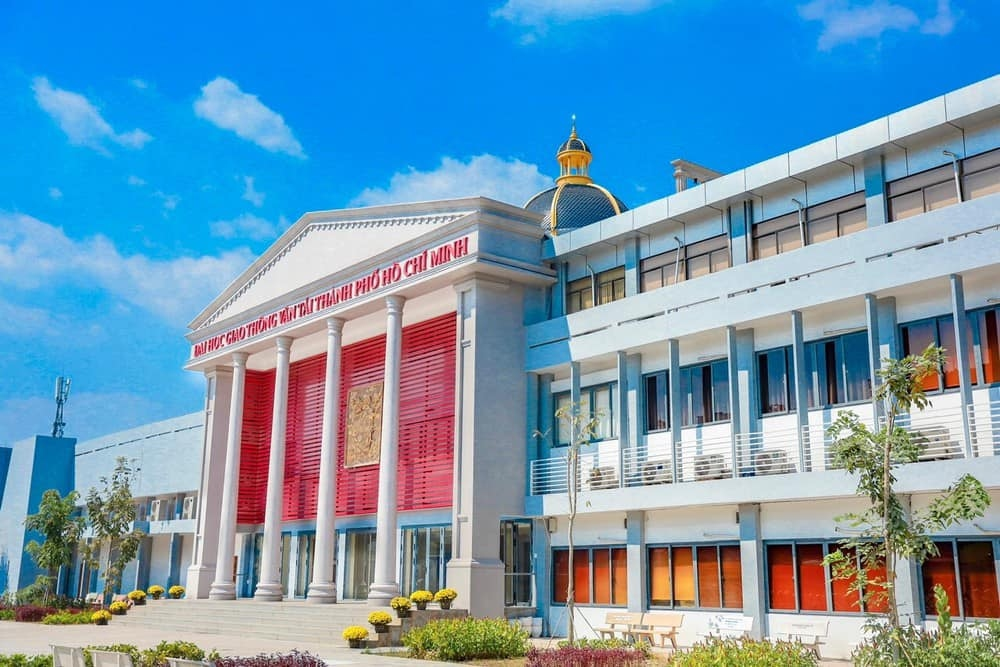
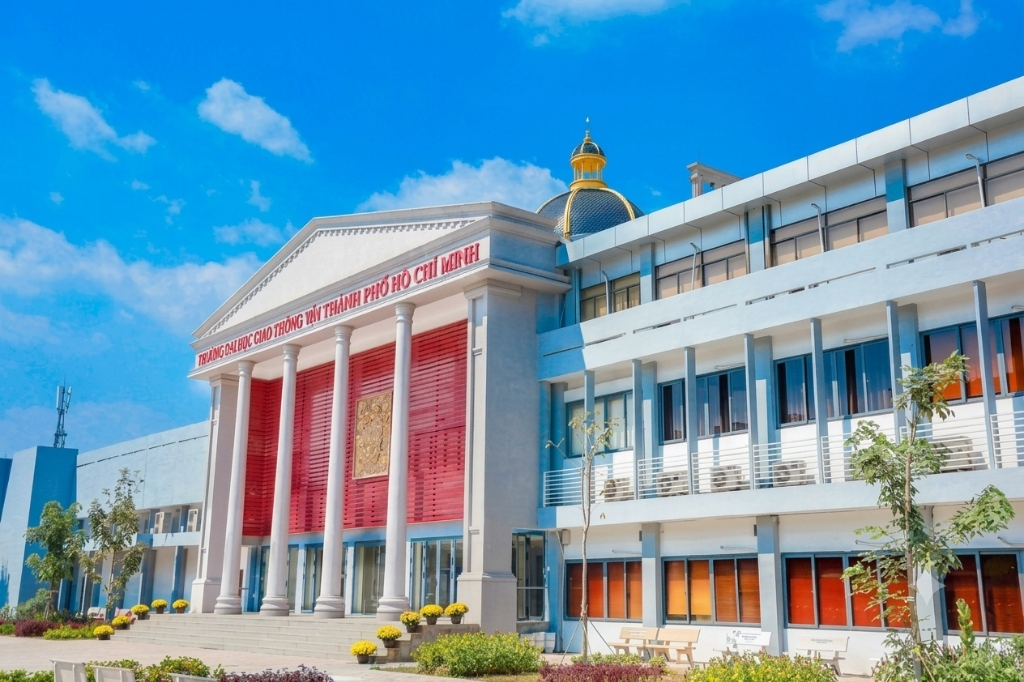
fix(auth): keep exact 1024x682 native resolution for campus background to prevent image blur and zoom

diff --git a/frontend/src/pages/LoginPage.tsx b/frontend/src/pages/LoginPage.tsx
@@ -67,143 +67,153 @@ export const LoginPage: React.FC = () => {
   };
 
   return (
-    <div className="min-h-screen lg:h-screen w-full relative overflow-x-hidden lg:overflow-hidden select-none flex flex-col justify-center items-center lg:items-end p-4 sm:p-6 lg:p-10 xl:pr-16">
-      {/* =========================================
-          FULL-SCREEN UTH CAMPUS BACKGROUND PHOTO
-          ========================================= */}
-      <img
-        src="/uth-campus-bg.jpg"
-        alt="Khuôn viên Trường Đại học Giao thông vận tải TP.HCM"
-        className="absolute inset-0 w-full h-full object-cover object-center filter brightness-100 contrast-105"
+    <div className="min-h-screen w-full flex items-center justify-center bg-[#071c1d] p-2 sm:p-4 lg:p-6 select-none relative overflow-x-hidden">
+      {/* Ambient background blur to naturally fill wide screens without stretching the main canvas */}
+      <div
+        className="fixed inset-0 bg-cover bg-center filter blur-3xl opacity-35 scale-110 pointer-events-none"
+        style={{ backgroundImage: 'url(/uth-campus-bg.jpg)' }}
       />
-
-      {/* Subtle Ambient Vignette & Sky Clarity */}
-      <div className="absolute inset-0 bg-black/10 pointer-events-none" />
+      <div className="fixed inset-0 bg-slate-950/50 pointer-events-none" />
 
       {/* Top Floating Back to Home Button */}
       <Link
         to="/"
-        className="absolute top-4 left-4 sm:top-6 sm:left-6 z-20 inline-flex items-center gap-1.5 text-xs font-semibold text-white hover:text-white bg-black/40 hover:bg-black/60 backdrop-blur-md px-3.5 py-1.5 rounded-full transition-all border border-white/25 shadow-md group"
+        className="absolute top-4 left-4 sm:top-6 sm:left-6 z-20 inline-flex items-center gap-1.5 text-xs font-semibold text-white/90 hover:text-white bg-black/40 hover:bg-black/60 backdrop-blur-md px-3.5 py-1.5 rounded-full transition-all border border-white/20 shadow-md group"
       >
         <ArrowLeft className="w-3.5 h-3.5 group-hover:-translate-x-0.5 transition-transform" />
         <span>Về trang chủ Thư viện</span>
       </Link>
 
-      {/* =========================================
-          LOGIN CARD FLOATING ON TOP-RIGHT (Matching Elearning UTH)
-          ========================================= */}
-      <div className="relative z-10 w-full max-w-[390px] sm:max-w-[410px] bg-white rounded-2xl sm:rounded-3xl shadow-[0_20px_50px_rgba(0,0,0,0.3)] p-6 sm:p-8 border border-white/95 animate-page-enter">
-        {/* Official UTH Logo */}
-        <div className="text-center mb-3">
-          <img
-            src="/uth-logo.png"
-            alt="UTH Logo"
-            className="h-16 mx-auto object-contain"
-          />
-        </div>
+      {/* ==============================================================
+          MAIN 1024x682 CANVAS - Exact 1:1 Native Dimensions (No Scaling/Zoom)
+          ============================================================== */}
+      <div className="relative w-[1024px] max-w-full h-[682px] max-h-[95vh] rounded-2xl sm:rounded-3xl shadow-[0_25px_60px_rgba(0,0,0,0.5)] overflow-hidden border border-white/20 flex flex-col justify-center items-center lg:items-end p-5 sm:p-8 lg:pr-10 z-10 shrink-0">
+        {/* Full-size 1024x682 UTH Campus Image rendered with optimal contrast */}
+        <img
+          src="/uth-campus-bg.jpg"
+          alt="Khuôn viên Trường Đại học Giao thông vận tải TP.HCM"
+          width={1024}
+          height={682}
+          className="absolute inset-0 w-full h-full object-cover sm:object-fill pointer-events-none"
+          style={{ imageRendering: '-webkit-optimize-contrast' }}
+        />
 
-        {/* Red Bold Heading */}
-        <h1 className="text-xl sm:text-2xl font-black text-[#D32F2F] tracking-wider text-center uppercase mb-6">
-          ĐĂNG NHẬP HỆ THỐNG
-        </h1>
+        {/* =========================================
+            LOGIN CARD - Positioned on the Right
+            ========================================= */}
+        <div className="relative z-10 w-full max-w-[360px] sm:max-w-[380px] bg-white rounded-2xl shadow-[0_15px_40px_rgba(0,0,0,0.3)] p-5 sm:p-7 border border-white/90 animate-page-enter">
+          {/* Official UTH Logo */}
+          <div className="text-center mb-3">
+            <img
+              src="/uth-logo.png"
+              alt="UTH Logo"
+              className="h-14 mx-auto object-contain"
+            />
+          </div>
 
-        {/* Error Message */}
-        {errorMsg && (
-          <div className="mb-4 animate-in fade-in duration-150">
-            <Alert variant="danger">
-              <div className="font-semibold text-xs">{errorMsg}</div>
-              {lockTime && (
-                <div className="text-[11px] mt-1 flex items-center gap-1">
-                  <Clock className="w-3 h-3" />
-                  Khóa đến: {new Date(lockTime).toLocaleTimeString('vi-VN')}
-                </div>
+          {/* Red Bold Heading */}
+          <h1 className="text-xl font-black text-[#D32F2F] tracking-wider text-center uppercase mb-5">
+            ĐĂNG NHẬP HỆ THỐNG
+          </h1>
+
+          {/* Error Message */}
+          {errorMsg && (
+            <div className="mb-4 animate-in fade-in duration-150">
+              <Alert variant="danger">
+                <div className="font-semibold text-xs">{errorMsg}</div>
+                {lockTime && (
+                  <div className="text-[11px] mt-1 flex items-center gap-1">
+                    <Clock className="w-3 h-3" />
+                    Khóa đến: {new Date(lockTime).toLocaleTimeString('vi-VN')}
+                  </div>
+                )}
+              </Alert>
+            </div>
+          )}
+
+          {/* Login Form */}
+          <form onSubmit={handleSubmit} className="space-y-3.5">
+            <div>
+              <input
+                type="text"
+                value={identity}
+                onChange={(e) => setIdentity(e.target.value)}
+                placeholder="Tài khoản đăng nhập"
+                autoFocus
+                className="w-full px-3.5 py-2.5 text-sm text-gray-800 bg-white border border-gray-300 rounded-lg focus:outline-none focus:border-brand focus:ring-1 focus:ring-brand placeholder:text-gray-400 placeholder:italic transition-all shadow-xs"
+              />
+            </div>
+
+            <div className="relative">
+              <input
+                type={showPassword ? 'text' : 'password'}
+                value={password}
+                onChange={(e) => setPassword(e.target.value)}
+                placeholder="Mật khẩu"
+                className="w-full px-3.5 py-2.5 text-sm text-gray-800 bg-white border border-gray-300 rounded-lg focus:outline-none focus:border-brand focus:ring-1 focus:ring-brand placeholder:text-gray-400 placeholder:italic pr-10 transition-all shadow-xs"
+              />
+              <button
+                type="button"
+                onClick={() => setShowPassword(!showPassword)}
+                className="absolute right-3 top-1/2 -translate-y-1/2 text-gray-400 hover:text-gray-600 focus:outline-none transition-colors"
+                tabIndex={-1}
+                aria-label={showPassword ? 'Ẩn mật khẩu' : 'Hiện mật khẩu'}
+              >
+                {showPassword ? <EyeOff className="w-4 h-4" /> : <Eye className="w-4 h-4" />}
+              </button>
+            </div>
+
+            <button
+              type="submit"
+              disabled={isLoading}
+              className="w-full mt-2 bg-[#008B8B] hover:bg-[#007272] active:bg-[#005B5C] text-white font-bold py-2.5 px-4 rounded-lg text-sm tracking-wider uppercase shadow-md hover:shadow-lg transition-all flex items-center justify-center gap-2 cursor-pointer disabled:opacity-60"
+            >
+              {isLoading ? (
+                <div className="w-4 h-4 border-2 border-white border-t-transparent rounded-full animate-spin" />
+              ) : (
+                'ĐĂNG NHẬP'
               )}
-            </Alert>
-          </div>
-        )}
+            </button>
+          </form>
 
-        {/* Login Form */}
-        <form onSubmit={handleSubmit} className="space-y-4">
-          <div>
-            <input
-              type="text"
-              value={identity}
-              onChange={(e) => setIdentity(e.target.value)}
-              placeholder="Tài khoản đăng nhập"
-              autoFocus
-              className="w-full px-3.5 py-2.5 text-sm text-gray-800 bg-white border border-gray-300 rounded-lg focus:outline-none focus:border-brand focus:ring-1 focus:ring-brand placeholder:text-gray-400 placeholder:italic transition-all shadow-xs"
-            />
+          {/* Forgot Password Link */}
+          <div className="text-center mt-4">
+            <Link
+              to="/forgot-password"
+              className="text-[#D32F2F] hover:text-red-700 hover:underline text-xs font-semibold uppercase tracking-wider transition-colors"
+            >
+              QUÊN MẬT KHẨU?
+            </Link>
           </div>
 
-          <div className="relative">
-            <input
-              type={showPassword ? 'text' : 'password'}
-              value={password}
-              onChange={(e) => setPassword(e.target.value)}
-              placeholder="Mật khẩu"
-              className="w-full px-3.5 py-2.5 text-sm text-gray-800 bg-white border border-gray-300 rounded-lg focus:outline-none focus:border-brand focus:ring-1 focus:ring-brand placeholder:text-gray-400 placeholder:italic pr-10 transition-all shadow-xs"
-            />
-            <button
-              type="button"
-              onClick={() => setShowPassword(!showPassword)}
-              className="absolute right-3 top-1/2 -translate-y-1/2 text-gray-400 hover:text-gray-600 focus:outline-none transition-colors"
-              tabIndex={-1}
-              aria-label={showPassword ? 'Ẩn mật khẩu' : 'Hiện mật khẩu'}
-            >
-              {showPassword ? <EyeOff className="w-4 h-4" /> : <Eye className="w-4 h-4" />}
-            </button>
-          </div>
-
-          <button
-            type="submit"
-            disabled={isLoading}
-            className="w-full mt-2 bg-[#008B8B] hover:bg-[#007272] active:bg-[#005B5C] text-white font-bold py-2.5 px-4 rounded-lg text-sm tracking-wider uppercase shadow-md hover:shadow-lg transition-all flex items-center justify-center gap-2 cursor-pointer disabled:opacity-60"
-          >
-            {isLoading ? (
-              <div className="w-4 h-4 border-2 border-white border-t-transparent rounded-full animate-spin" />
-            ) : (
-              'ĐĂNG NHẬP'
-            )}
-          </button>
-        </form>
-
-        {/* Forgot Password Link */}
-        <div className="text-center mt-5">
-          <Link
-            to="/forgot-password"
-            className="text-[#D32F2F] hover:text-red-700 hover:underline text-xs font-semibold uppercase tracking-wider transition-colors"
-          >
-            QUÊN MẬT KHẨU?
-          </Link>
-        </div>
-
-        {/* Demo Fast-Fill Pills for Convenient Testing */}
-        <div className="mt-6 pt-4 border-t border-gray-100">
-          <p className="text-[10px] text-gray-400 font-bold uppercase tracking-wider text-center mb-2">
-            Tài khoản mẫu thử nghiệm:
-          </p>
-          <div className="flex items-center justify-center gap-2 flex-wrap">
-            <button
-              type="button"
-              onClick={() => handleDemoFill('admin', 'Admin@123')}
-              className="px-2.5 py-1 text-[11px] font-medium bg-slate-50 hover:bg-teal-50 hover:text-teal-700 border border-gray-200 rounded-md transition-colors"
-            >
-              Thủ thư (Admin)
-            </button>
-            <button
-              type="button"
-              onClick={() => handleDemoFill('052205006506', 'Student@123')}
-              className="px-2.5 py-1 text-[11px] font-medium bg-slate-50 hover:bg-teal-50 hover:text-teal-700 border border-gray-200 rounded-md transition-colors"
-            >
-              Sinh viên
-            </button>
-            <button
-              type="button"
-              onClick={() => handleDemoFill('gv_hoangnam', 'Lecturer@123')}
-              className="px-2.5 py-1 text-[11px] font-medium bg-slate-50 hover:bg-teal-50 hover:text-teal-700 border border-gray-200 rounded-md transition-colors"
-            >
-              Giảng viên
-            </button>
+          {/* Demo Fast-Fill Pills for Convenient Testing */}
+          <div className="mt-5 pt-3.5 border-t border-gray-100">
+            <p className="text-[10px] text-gray-400 font-bold uppercase tracking-wider text-center mb-1.5">
+              Tài khoản mẫu thử nghiệm:
+            </p>
+            <div className="flex items-center justify-center gap-2 flex-wrap">
+              <button
+                type="button"
+                onClick={() => handleDemoFill('admin', 'Admin@123')}
+                className="px-2.5 py-1 text-[11px] font-medium bg-slate-50 hover:bg-teal-50 hover:text-teal-700 border border-gray-200 rounded-md transition-colors"
+              >
+                Thủ thư (Admin)
+              </button>
+              <button
+                type="button"
+                onClick={() => handleDemoFill('052205006506', 'Student@123')}
+                className="px-2.5 py-1 text-[11px] font-medium bg-slate-50 hover:bg-teal-50 hover:text-teal-700 border border-gray-200 rounded-md transition-colors"
+              >
+                Sinh viên
+              </button>
+              <button
+                type="button"
+                onClick={() => handleDemoFill('gv_hoangnam', 'Lecturer@123')}
+                className="px-2.5 py-1 text-[11px] font-medium bg-slate-50 hover:bg-teal-50 hover:text-teal-700 border border-gray-200 rounded-md transition-colors"
+              >
+                Giảng viên
+              </button>
+            </div>
           </div>
         </div>
       </div>
